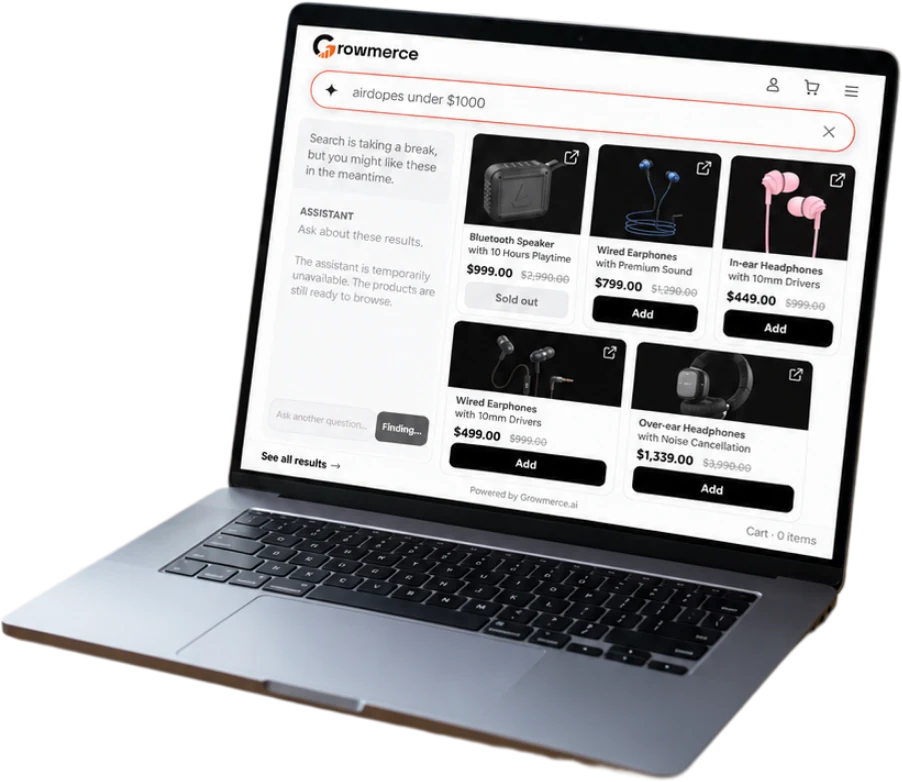
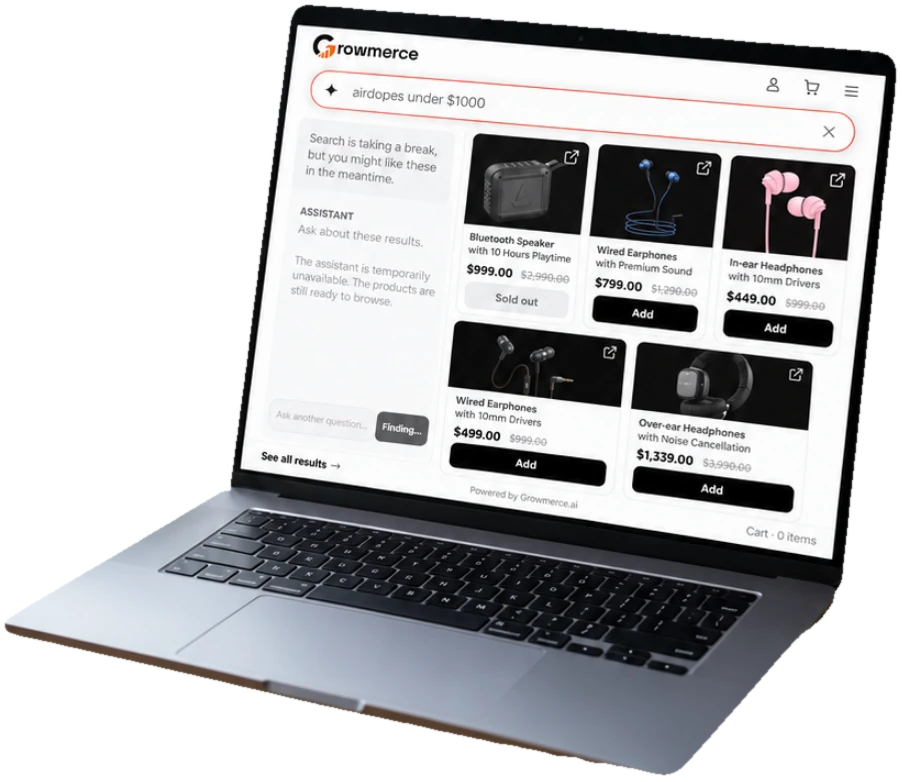
Clean the matte on the CTA laptop, drop Login from the nav sheet
The Figma cut the laptop's matte a few pixels wide of the machine, so a
band of the original brown backdrop came across with it — opaque, not a
soft fringe, which is why it read as a dirty edge against the peach. The
matte is pulled in past the contamination and re-feathered.

The mobile nav sheet's Login button goes; the sheet now pins only "See
demo" to its foot. The header's own Login is untouched — it is not part
of the sheet.

diff --git a/src/components/site/Navbar.tsx b/src/components/site/Navbar.tsx
@@ -290,24 +290,17 @@ export default function Navbar({
               )}
             </nav>
 
-            {/* Full width and stacked: the sheet is the whole screen here, so
-                a pair of half-width buttons would leave the primary action
-                smaller than every row above it. Pinned to the foot, because
-                the list is taller than any phone and the primary action
+            {/* Full width: the sheet is the whole screen here, so a half-width
+                button would be smaller than every row above it. Pinned to the
+                foot, because the list is taller than any phone and the action
                 should not be something you have to scroll to find. */}
-            <div className="sticky bottom-0 -mx-5 grid gap-3 border-t border-brand/10 bg-cream px-5 pt-4 pb-6">
+            <div className="sticky bottom-0 -mx-5 grid border-t border-brand/10 bg-cream px-5 pt-4 pb-6">
               <DemoStoreButton
                 source="navbar-mobile"
                 onOpen={() => setMobile(false)}
                 className="cta-primary w-full"
               />
-              <Link
-                href="#login"
-                onClick={() => setMobile(false)}
-                className="cta-secondary w-full"
-              >
-                Login
-              </Link>
+
             </div>
           </div>
         </div>
